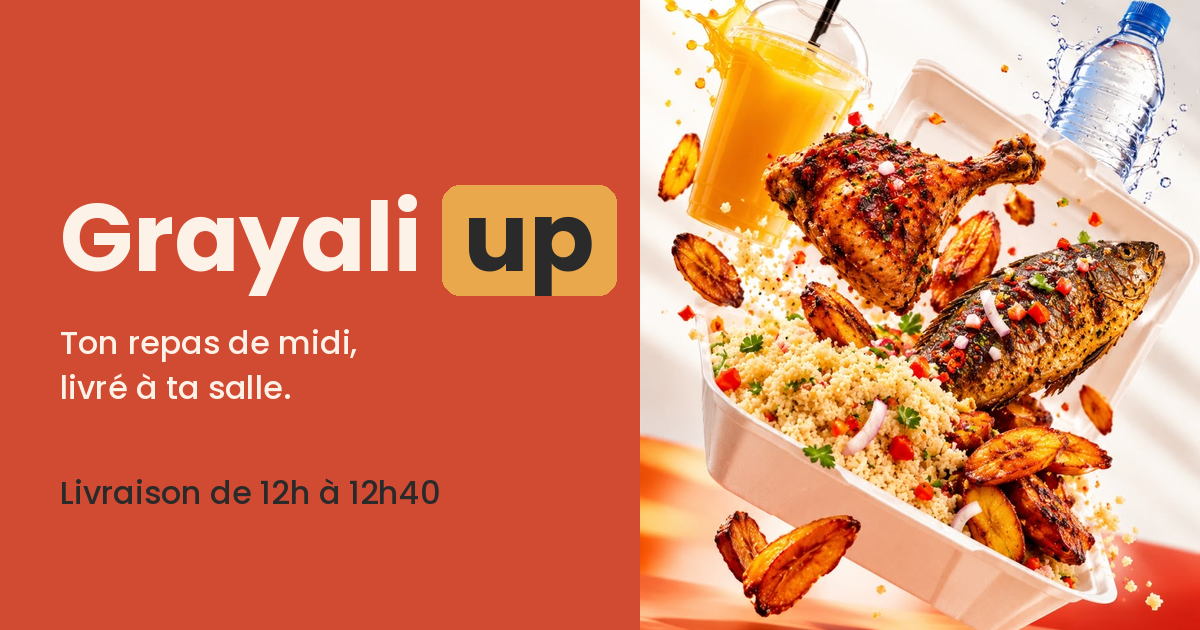
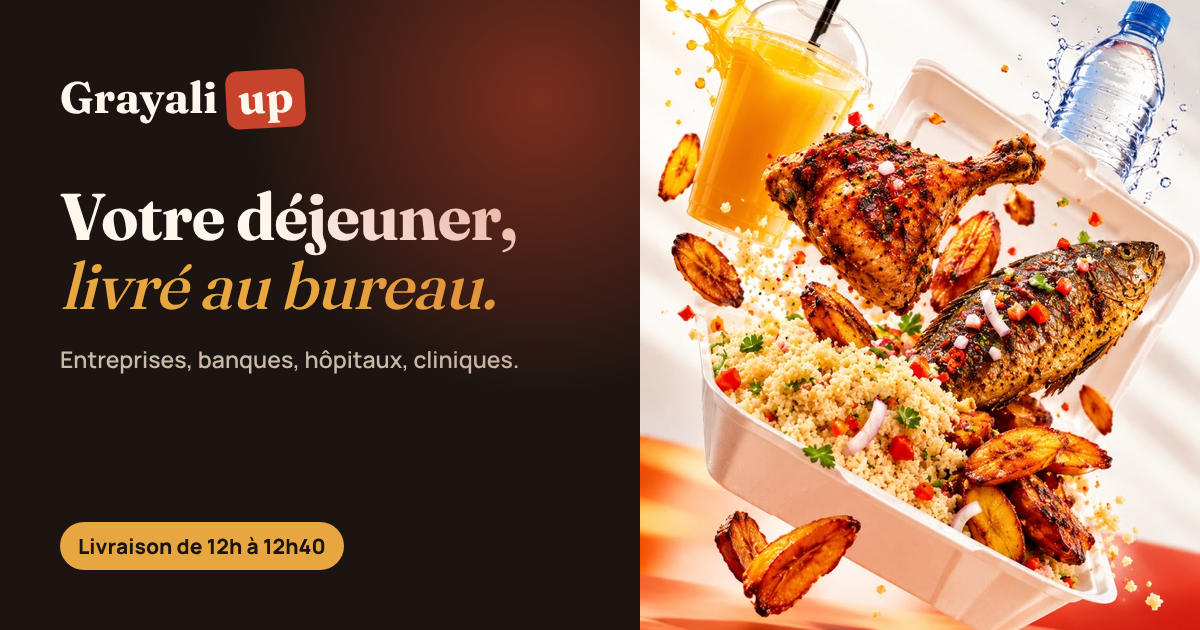
Version entreprises : plats à 1300 F, livraison au bureau, vouvoiement
Textes adaptés aux travailleurs (entreprises, banques, hôpitaux,
cliniques), nouvelle image d'aperçu, message WhatsApp marqué PRO.

Claude-Session: https://claude.ai/code/session_015VfU1APQaspC4ss6bpc7VS

diff --git a/index.html b/index.html
@@ -3,14 +3,14 @@
 <head>
 <meta charset="utf-8">
 <meta name="viewport" content="width=device-width, initial-scale=1, viewport-fit=cover">
-<title>Grayali up — Ton repas de midi, livré à ta salle</title>
-<meta name="description" content="Plats ivoiriens faits du jour, livrés dans ta salle ou ton amphi entre 12h et 12h40. Commande en 1 minute sur WhatsApp, paiement Wave.">
+<title>Grayali up — Votre déjeuner livré au bureau</title>
+<meta name="description" content="Plats ivoiriens faits du jour, livrés à votre bureau entre 12h et 12h40. Entreprises, banques, hôpitaux, cliniques : commandez en 1 minute sur WhatsApp, paiement Wave.">
 <meta name="theme-color" content="#1b1410">
 <meta property="og:type" content="website">
-<meta property="og:title" content="Grayali up — Ton repas de midi, livré à ta salle">
-<meta property="og:description" content="Plats faits du jour, livrés entre 12h et 12h40. Commande sur WhatsApp, paiement Wave.">
+<meta property="og:title" content="Grayali up — Votre déjeuner livré au bureau">
+<meta property="og:description" content="Plats faits du jour, livrés à votre bureau entre 12h et 12h40. Commande sur WhatsApp, paiement Wave.">
 <meta property="og:url" content="https://fadi2811.github.io/Grayali-up-/">
-<meta property="og:image" content="https://fadi2811.github.io/Grayali-up-/preview.png">
+<meta property="og:image" content="https://fadi2811.github.io/Grayali-up-/preview.png?v=2">
 <meta property="og:image:width" content="1200">
 <meta property="og:image:height" content="630">
 <meta name="twitter:card" content="summary_large_image">
@@ -388,16 +388,16 @@ footer .cp{grid-column:1/-1;border-top:1px solid rgba(255,255,255,.1);padding-to
   <div class="wrap">
     <div>
       <span class="status" id="status"><span class="pulse" id="pulse"></span><span id="statusTx">Chargement…</span></span>
-      <h1>Ton repas de midi, <em>livré à ta salle.</em></h1>
-      <p class="lead">Des plats ivoiriens faits du jour, apportés dans ton bâtiment, ta salle ou ton amphi entre 12h et 12h40. Tu commandes en une minute sur WhatsApp, tu paies par Wave.</p>
+      <h1>Votre déjeuner, <em>livré au bureau.</em></h1>
+      <p class="lead">Des plats ivoiriens faits du jour, apportés à votre entreprise, votre service ou votre clinique entre 12h et 12h40. Vous commandez en une minute sur WhatsApp, vous payez par Wave.</p>
       <div class="cta">
         <a class="btn p" href="#menu">Voir le menu
           <svg viewBox="0 0 24 24" fill="none" stroke="currentColor" stroke-width="2.2" stroke-linecap="round" stroke-linejoin="round"><path d="M5 12h14M13 6l6 6-6 6"/></svg></a>
         <a class="btn g" href="#how">Comment ça marche</a>
       </div>
       <div class="facts">
-        <div><b id="fPrice">1 100 F</b>le plat, livraison incluse</div>
-        <div><b>12h–12h40</b>livré dans ta salle</div>
+        <div><b id="fPrice">1 300 F</b>le plat, livraison incluse</div>
+        <div><b>12h–12h40</b>livré à votre bureau</div>
         <div><b>30 pts</b>= un cadeau surprise</div>
       </div>
     </div>
@@ -405,7 +405,7 @@ footer .cp{grid-column:1/-1;border-top:1px solid rgba(255,255,255,.1);padding-to
       <div class="p1"><img src="img/apf.jpg" alt=""></div>
       <div class="p2"><img src="img/alp.jpg" alt=""></div>
       <div class="p3"><img src="img/sp.jpg" alt=""></div>
-      <div class="tag t1"><span class="ic">🛵</span><span>Livré en salle<small>de 12h à 12h40</small></span></div>
+      <div class="tag t1"><span class="ic">🛵</span><span>Livré au bureau<small>de 12h à 12h40</small></span></div>
       <div class="tag t2"><span class="ic">💳</span><span>Paiement Wave<small>lien envoyé sur WhatsApp</small></span></div>
     </div>
   </div>
@@ -420,7 +420,7 @@ footer .cp{grid-column:1/-1;border-top:1px solid rgba(255,255,255,.1);padding-to
     <div class="sh2">
       <div>
         <span class="eyebrow">Le menu</span>
-        <h2>Choisis ton plat</h2>
+        <h2>Choisissez votre plat</h2>
         <p>Un prix unique, livraison comprise. Le stock est mis à jour en direct : quand c’est épuisé, c’est épuisé.</p>
       </div>
     </div>
@@ -439,13 +439,13 @@ footer .cp{grid-column:1/-1;border-top:1px solid rgba(255,255,255,.1);padding-to
 
 <section class="s alt" id="how">
   <div class="wrap">
-    <div class="sh2"><div><span class="eyebrow">Comment ça marche</span><h2>Simple, du choix à l’assiette</h2><p>Commande à toute heure. Pour être livré aujourd’hui, commande avant <b id="cutTx">11h30</b>. Sinon, c’est pour le prochain jour d’école.</p></div></div>
+    <div class="sh2"><div><span class="eyebrow">Comment ça marche</span><h2>Simple, du choix à l’assiette</h2><p>Commandez à toute heure. Pour être livré aujourd’hui, commandez avant <b id="cutTx">11h30</b>. Sinon, c’est pour le prochain jour ouvré.</p></div></div>
     <div class="steps">
-      <div class="step reveal"><div class="k"><svg viewBox="0 0 24 24" fill="none" stroke="currentColor" stroke-width="2" stroke-linecap="round" stroke-linejoin="round"><path d="M4 11h16a8 8 0 0 1-16 0z"/><path d="M12 3v3M8 4v2M16 4v2"/></svg></div><h3>Choisis tes plats</h3><p>Aujourd’hui ou le prochain jour, autant de plats que tu veux dans un même panier.</p></div>
-      <div class="step reveal"><div class="k"><svg viewBox="0 0 24 24" fill="none" stroke="currentColor" stroke-width="2" stroke-linecap="round" stroke-linejoin="round"><path d="M12 21s-7-6.2-7-11a7 7 0 0 1 14 0c0 4.8-7 11-7 11z"/><circle cx="12" cy="10" r="2.5"/></svg></div><h3>Dis-nous où livrer</h3><p>Ton bâtiment, ta salle ou ton amphi, et ton numéro WhatsApp.</p></div>
-      <div class="step reveal"><div class="k"><svg viewBox="0 0 24 24" fill="none" stroke="currentColor" stroke-width="2" stroke-linecap="round" stroke-linejoin="round"><path d="M21 12a9 9 0 0 1-13.4 7.9L3 21l1.1-4.6A9 9 0 1 1 21 12z"/></svg></div><h3>Envoie sur WhatsApp</h3><p>Ton message est déjà écrit. Tu reçois un code de commande, garde-le bien.</p></div>
-      <div class="step reveal"><div class="k"><svg viewBox="0 0 24 24" fill="none" stroke="currentColor" stroke-width="2" stroke-linecap="round" stroke-linejoin="round"><rect x="3" y="6" width="18" height="13" rx="2"/><path d="M3 10h18M7 15h3"/></svg></div><h3>Paie par Wave</h3><p>Le lien de paiement arrive sur WhatsApp. Paie avant 22h, sinon la commande est annulée.</p></div>
-      <div class="step reveal"><div class="k"><svg viewBox="0 0 24 24" fill="none" stroke="currentColor" stroke-width="2" stroke-linecap="round" stroke-linejoin="round"><path d="M5 17h14l-1.5-6h-11z"/><circle cx="8" cy="19" r="1.5"/><circle cx="16" cy="19" r="1.5"/><path d="M9 11V8a3 3 0 0 1 6 0v3"/></svg></div><h3>Reçois ton plat</h3><p>Entre 12h et 12h40, donne ton code à la personne qui te livre. Bon appétit !</p></div>
+      <div class="step reveal"><div class="k"><svg viewBox="0 0 24 24" fill="none" stroke="currentColor" stroke-width="2" stroke-linecap="round" stroke-linejoin="round"><path d="M4 11h16a8 8 0 0 1-16 0z"/><path d="M12 3v3M8 4v2M16 4v2"/></svg></div><h3>Choisissez vos plats</h3><p>Pour aujourd’hui ou le prochain jour ouvré, pour vous seul ou pour toute l’équipe.</p></div>
+      <div class="step reveal"><div class="k"><svg viewBox="0 0 24 24" fill="none" stroke="currentColor" stroke-width="2" stroke-linecap="round" stroke-linejoin="round"><path d="M12 21s-7-6.2-7-11a7 7 0 0 1 14 0c0 4.8-7 11-7 11z"/><circle cx="12" cy="10" r="2.5"/></svg></div><h3>Indiquez où livrer</h3><p>Votre entreprise, le service ou l’étage, et votre numéro WhatsApp.</p></div>
+      <div class="step reveal"><div class="k"><svg viewBox="0 0 24 24" fill="none" stroke="currentColor" stroke-width="2" stroke-linecap="round" stroke-linejoin="round"><path d="M21 12a9 9 0 0 1-13.4 7.9L3 21l1.1-4.6A9 9 0 1 1 21 12z"/></svg></div><h3>Envoyez sur WhatsApp</h3><p>Le message est déjà rédigé. Vous recevez un code de commande, gardez-le.</p></div>
+      <div class="step reveal"><div class="k"><svg viewBox="0 0 24 24" fill="none" stroke="currentColor" stroke-width="2" stroke-linecap="round" stroke-linejoin="round"><rect x="3" y="6" width="18" height="13" rx="2"/><path d="M3 10h18M7 15h3"/></svg></div><h3>Payez par Wave</h3><p>Le lien de paiement arrive sur WhatsApp. Payez avant 22h, sinon la commande est annulée.</p></div>
+      <div class="step reveal"><div class="k"><svg viewBox="0 0 24 24" fill="none" stroke="currentColor" stroke-width="2" stroke-linecap="round" stroke-linejoin="round"><path d="M5 17h14l-1.5-6h-11z"/><circle cx="8" cy="19" r="1.5"/><circle cx="16" cy="19" r="1.5"/><path d="M9 11V8a3 3 0 0 1 6 0v3"/></svg></div><h3>Recevez votre plat</h3><p>Entre 12h et 12h40, donnez votre code au livreur. Bon appétit !</p></div>
     </div>
   </div>
 </section>
@@ -454,13 +454,13 @@ footer .cp{grid-column:1/-1;border-top:1px solid rgba(255,255,255,.1);padding-to
   <div class="wrap loy">
     <div class="loyc reveal">
       <span class="eyebrow">Programme fidélité</span>
-      <h2>1 plat payé = 1 point.<br>À <span id="goalTx">30</span>, on te gâte.</h2>
-      <p>Chaque plat payé te rapporte un point, ajouté dès que ton paiement est confirmé. Au bout de 30 points, un cadeau surprise t’attend.</p>
+      <h2>1 plat payé = 1 point.<br>À <span id="goalTx">30</span>, on vous gâte.</h2>
+      <p>Chaque plat payé vous rapporte un point, ajouté dès que votre paiement est confirmé. Au bout de 30 points, un cadeau surprise vous attend.</p>
       <div class="perks"><span class="perk">🍬 Une sucrerie</span><span class="perk">💧 Une bouteille d’eau</span><span class="perk">🍽 Parfois un plat offert</span></div>
     </div>
     <form class="ptsbox reveal" id="ptsf" novalidate>
       <h3>Mes points</h3>
-      <label class="field">Ton numéro WhatsApp<input id="pt" type="tel" inputmode="tel" autocomplete="tel" placeholder="05 00 00 00 00"></label>
+      <label class="field">Votre numéro WhatsApp<input id="pt" type="tel" inputmode="tel" autocomplete="tel" placeholder="05 00 00 00 00"></label>
       <button class="btn p blk" type="submit">Voir mes points</button>
       <div id="pres" aria-live="polite"></div>
     </form>
@@ -469,8 +469,8 @@ footer .cp{grid-column:1/-1;border-top:1px solid rgba(255,255,255,.1);padding-to
 
 <section class="s alt" id="shop">
   <div class="wrap">
-    <div class="sh2"><div><span class="eyebrow">Boutique</span><h2>Bientôt plus que des plats</h2><p>Vêtements, chaussures et accessoires, livrés sur le campus de la même façon.</p></div></div>
-    <div id="shopLock" class="shopc reveal"><div class="em">👕👟🎒</div><h3>La boutique ouvre bientôt</h3><p>On prépare une sélection pour toi. En attendant, commande ton repas de midi !</p><p style="margin-top:20px"><a class="btn o" href="#menu">Voir le menu</a></p></div>
+    <div class="sh2"><div><span class="eyebrow">Boutique</span><h2>Bientôt plus que des plats</h2><p>Vêtements, chaussures et accessoires, livrés à votre bureau de la même façon.</p></div></div>
+    <div id="shopLock" class="shopc reveal"><div class="em">👕👟🎒</div><h3>La boutique ouvre bientôt</h3><p>Nous préparons une sélection pour vous. En attendant, commandez votre déjeuner !</p><p style="margin-top:20px"><a class="btn o" href="#menu">Voir le menu</a></p></div>
     <div id="shopOpen" hidden>
       <div class="ctrl"><div class="chips" id="pcats"></div><button class="btn o" id="shopCartB" onclick="openShop()" style="height:44px">Panier boutique (<span id="shopn">0</span>)</button></div>
       <div class="pgrid" id="pgrid"></div>
@@ -482,12 +482,12 @@ footer .cp{grid-column:1/-1;border-top:1px solid rgba(255,255,255,.1);padding-to
   <div class="wrap">
     <div class="sh2"><div><span class="eyebrow">Questions fréquentes</span><h2>Tout ce qu’il faut savoir</h2></div></div>
     <div class="faq">
-      <details><summary>Jusqu’à quelle heure puis-je commander pour aujourd’hui ?</summary><p>Jusqu’à <b class="cutx">11h30</b>, du lundi au vendredi. Après, ta commande part pour le prochain jour d’école. Tu peux commander à n’importe quelle heure.</p></details>
-      <details><summary>Comment je paie ?</summary><p>Par Wave uniquement. Après ton message WhatsApp, tu reçois un lien de paiement. Paie avant 22h (pour une commande du jour, dès que tu reçois le lien), sinon la commande est annulée.</p></details>
-      <details><summary>La livraison est-elle payante ?</summary><p>Non, elle est incluse dans le prix du plat. On te livre dans ton bâtiment, ta salle ou ton amphi entre 12h et 12h40.</p></details>
-      <details><summary>À quoi sert mon code de commande ?</summary><p>C’est ta preuve de commande. Donne-le à la personne qui te livre pour récupérer ton plat. Fais une capture d’écran pour le garder.</p></details>
-      <details><summary>Je peux commander pour plusieurs personnes ?</summary><p>Oui. Ajoute plusieurs plats dans ton panier, tant qu’il reste du stock. Un panier correspond à un seul jour de livraison.</p></details>
-      <details><summary>Comment marchent les points ?</summary><p>1 plat payé = 1 point, ajouté quand ton paiement est confirmé. À 30 points, tu gagnes un cadeau surprise. Vérifie ton total dans la section Fidélité avec ton numéro WhatsApp.</p></details>
+      <details><summary>Jusqu’à quelle heure puis-je commander pour aujourd’hui ?</summary><p>Jusqu’à <b class="cutx">11h30</b>, du lundi au vendredi. Après, votre commande part pour le prochain jour ouvré. Vous pouvez commander à n’importe quelle heure.</p></details>
+      <details><summary>Comment payer ?</summary><p>Par Wave uniquement. Après votre message WhatsApp, vous recevez un lien de paiement. Payez avant 22h (pour une commande du jour, dès réception du lien), sinon la commande est annulée.</p></details>
+      <details><summary>La livraison est-elle payante ?</summary><p>Non, elle est incluse dans le prix du plat. Nous livrons à votre bureau, à l’accueil ou dans votre service entre 12h et 12h40.</p></details>
+      <details><summary>À quoi sert mon code de commande ?</summary><p>C’est votre preuve de commande. Donnez-le au livreur pour récupérer votre plat. Faites une capture d’écran pour le garder.</p></details>
+      <details><summary>Puis-je commander pour mon équipe ?</summary><p>Oui. Ajoutez plusieurs plats dans votre panier, tant qu’il reste du stock, et tout est livré au même endroit. Un panier correspond à un seul jour de livraison.</p></details>
+      <details><summary>Comment marchent les points ?</summary><p>1 plat payé = 1 point, ajouté quand votre paiement est confirmé. À 30 points, vous gagnez un cadeau surprise. Consultez votre total dans la section Fidélité avec votre numéro WhatsApp.</p></details>
     </div>
   </div>
 </section>
@@ -497,7 +497,7 @@ footer .cp{grid-column:1/-1;border-top:1px solid rgba(255,255,255,.1);padding-to
   <div class="wrap">
     <div>
       <div class="logo">Grayali <i>up</i></div>
-      <p style="margin:0;max-width:340px">Ton repas de midi, livré à ta salle. Plats faits du jour, livrés entre 12h et 12h40.</p>
+      <p style="margin:0;max-width:340px">Votre déjeuner livré au bureau. Entreprises, banques, hôpitaux, cliniques : plats faits du jour, livrés entre 12h et 12h40.</p>
     </div>
     <div>
       <h4>Le site</h4>
@@ -540,7 +540,7 @@ footer .cp{grid-column:1/-1;border-top:1px solid rgba(255,255,255,.1);padding-to
 <!-- Panier -->
 <div class="ov side" id="cart" role="dialog" aria-modal="true" aria-labelledby="cth" hidden>
   <div class="mod">
-    <div class="dh"><h2 id="cth">Ton panier</h2><button class="x" onclick="closeOv('cart')" aria-label="Fermer"><svg viewBox="0 0 24 24" fill="none" stroke="currentColor" stroke-width="2.2" stroke-linecap="round"><path d="M6 6l12 12M18 6 6 18"/></svg></button></div>
+    <div class="dh"><h2 id="cth">Votre panier</h2><button class="x" onclick="closeOv('cart')" aria-label="Fermer"><svg viewBox="0 0 24 24" fill="none" stroke="currentColor" stroke-width="2.2" stroke-linecap="round"><path d="M6 6l12 12M18 6 6 18"/></svg></button></div>
     <div class="dc" id="cbody"></div>
     <div class="df" id="cfoot"></div>
   </div>
@@ -552,18 +552,18 @@ footer .cp{grid-column:1/-1;border-top:1px solid rgba(255,255,255,.1);padding-to
     <div class="done">
       <div class="ck"><svg viewBox="0 0 24 24" fill="none" stroke="currentColor" stroke-width="2.6" stroke-linecap="round" stroke-linejoin="round"><path d="M5 12.5l4.5 4.5L19 7.5"/></svg></div>
       <h2 id="doneh">Plus qu’une étape</h2>
-      <p>Ta commande <b>n’est pas encore envoyée</b>. Touche le bouton vert pour l’envoyer sur WhatsApp.</p>
-      <div class="code"><small>Ton code de commande</small><span id="dcode"></span></div>
+      <p>Votre commande <b>n’est pas encore envoyée</b>. Touchez le bouton vert pour l’envoyer sur WhatsApp.</p>
+      <div class="code"><small>Votre code de commande</small><span id="dcode"></span></div>
       <div class="tl">
-        <div><i>1</i><span>Envoie le message WhatsApp (il est déjà écrit).</span></div>
+        <div><i>1</i><span>Envoyez le message WhatsApp (il est déjà rédigé).</span></div>
         <div><i>2</i><span id="payn"></span></div>
-        <div><i>3</i><span><b id="dwhen"></b> : donne ton code à la personne qui te livre.</span></div>
+        <div><i>3</i><span><b id="dwhen"></b> : donnez votre code au livreur.</span></div>
       </div>
       <a class="btn w blk" id="ow" href="#" target="_blank" rel="noopener" onclick="sentWa()">
         <svg viewBox="0 0 24 24" fill="currentColor"><path d="M12 2a10 10 0 0 0-8.6 15.1L2 22l5-1.3A10 10 0 1 0 12 2zm5.3 14.1c-.2.6-1.3 1.2-1.8 1.2-.5.1-1 .1-3.3-.8-2.8-1.1-4.5-4-4.7-4.2-.1-.2-1.1-1.5-1.1-2.8s.7-2 1-2.3c.2-.3.5-.3.7-.3h.5c.2 0 .4 0 .6.5l.8 2c.1.2.1.3 0 .5l-.4.6c-.1.2-.3.3-.1.6.2.3.7 1.2 1.6 2 1.1 1 2 1.3 2.3 1.4.3.1.4.1.6-.1l.8-1c.2-.3.4-.2.6-.1l1.9.9c.3.1.5.2.5.3.1.2.1.8-.1 1.4z"/></svg>
         Envoyer sur WhatsApp</a>
       <button class="btn o blk" id="fb" hidden onclick="fin()">C’est envoyé, terminer</button>
-      <details><summary>Le bouton ne marche pas ?</summary><p style="margin-top:8px">Copie ce message et envoie-le sur WhatsApp au <b>05 75 02 84 17</b>.</p><textarea id="om" rows="6" readonly></textarea><button class="btn o blk" style="height:46px" onclick="cp(this)">Copier le message</button></details>
+      <details><summary>Le bouton ne marche pas ?</summary><p style="margin-top:8px">Copiez ce message et envoyez-le sur WhatsApp au <b>05 75 02 84 17</b>.</p><textarea id="om" rows="6" readonly></textarea><button class="btn o blk" style="height:46px" onclick="cp(this)">Copier le message</button></details>
     </div>
   </div>
 </div>
@@ -596,16 +596,16 @@ var GOAL = 30;
    tableau de bord est lié à la position (t0, t1, … / d0, d1, …). */
 var PLACE = "Le Chalet Ivoire";
 var D = [
-  {n:"Alloco + poulet pané",p:1100,st:15,img:"alp",c:["alloco","poulet"],x:"Bananes plantain dorées et poulet pané croustillant."},
-  {n:"Frites + poulet pané",p:1100,st:15,img:"fpp",c:["frites","poulet"],x:"Frites croustillantes et poulet pané doré, sauces à côté."},
-  {n:"Alloco + poulet mayo",p:1100,st:15,img:"alm",c:["alloco","poulet"],x:"Alloco fondant et poulet nappé de sauce mayonnaise."},
-  {n:"Frites + poulet mayo",p:1100,st:15,img:"fm",c:["frites","poulet"],x:"Frites généreuses, poulet grillé et sauce mayo maison."},
-  {n:"Attiéké + poulet mayo",p:1100,st:15,img:"atm",c:["attieke","poulet"],x:"Attiéké parfumé, poulet sauce mayo et crudités."},
-  {n:"Riz aux vermicelles + poulet mayo",p:1100,st:15,img:"rv",c:["riz","poulet"],x:"Riz sauté aux vermicelles et légumes, poulet sauce mayo."},
-  {n:"APF (attiéké poisson braisé)",p:1100,st:15,img:"apf",c:["attieke","grill"],x:"Le grand classique : attiéké, poisson braisé, oignons et piment."},
-  {n:"Spaghetti bolognaise + poulet mayo",p:1100,st:15,img:"sp",c:["riz","poulet"],x:"Spaghetti à la sauce bolognaise et poulet sauce mayo."},
-  {n:"Choukouya de poulet",p:1100,st:15,img:"ch",c:["grill","poulet"],x:"Poulet braisé façon choukouya, épices, oignons et légumes."},
-  {n:"Attiéké + poulet grillé",p:1100,st:15,img:"pg",c:["attieke","grill","poulet"],x:"Attiéké, poulet grillé au feu de bois et crudités fraîches."}
+  {n:"Alloco + poulet pané",p:1300,st:15,img:"alp",c:["alloco","poulet"],x:"Bananes plantain dorées et poulet pané croustillant."},
+  {n:"Frites + poulet pané",p:1300,st:15,img:"fpp",c:["frites","poulet"],x:"Frites croustillantes et poulet pané doré, sauces à côté."},
+  {n:"Alloco + poulet mayo",p:1300,st:15,img:"alm",c:["alloco","poulet"],x:"Alloco fondant et poulet nappé de sauce mayonnaise."},
+  {n:"Frites + poulet mayo",p:1300,st:15,img:"fm",c:["frites","poulet"],x:"Frites généreuses, poulet grillé et sauce mayo maison."},
+  {n:"Attiéké + poulet mayo",p:1300,st:15,img:"atm",c:["attieke","poulet"],x:"Attiéké parfumé, poulet sauce mayo et crudités."},
+  {n:"Riz aux vermicelles + poulet mayo",p:1300,st:15,img:"rv",c:["riz","poulet"],x:"Riz sauté aux vermicelles et légumes, poulet sauce mayo."},
+  {n:"APF (attiéké poisson braisé)",p:1300,st:15,img:"apf",c:["attieke","grill"],x:"Le grand classique : attiéké, poisson braisé, oignons et piment."},
+  {n:"Spaghetti bolognaise + poulet mayo",p:1300,st:15,img:"sp",c:["riz","poulet"],x:"Spaghetti à la sauce bolognaise et poulet sauce mayo."},
+  {n:"Choukouya de poulet",p:1300,st:15,img:"ch",c:["grill","poulet"],x:"Poulet braisé façon choukouya, épices, oignons et légumes."},
+  {n:"Attiéké + poulet grillé",p:1300,st:15,img:"pg",c:["attieke","grill","poulet"],x:"Attiéké, poulet grillé au feu de bois et crudités fraîches."}
 ];
 D.forEach(function(x){x.sd=x.st;x.src="img/"+x.img+".jpg"});
 var CATS=[["all","Tout"],["poulet","Poulet"],["grill","Grillades"],["attieke","Attiéké"],["alloco","Alloco"],["frites","Frites"],["riz","Riz & pâtes"]];
@@ -699,9 +699,9 @@ function drawDaySeg(){
   $("#dayseg").hidden=!TODAY_ON;
   $("#dayseg").innerHTML='<button role="tab" aria-selected="'+(dayMode==="d")+'" class="'+(dayMode==="d"?"on":"")+'"'+(di.todayOpen?"":" disabled")+' onclick="switchDay(\'d\')">Aujourd’hui<small>'+(di.todayOpen?"jusqu’à "+hm(TODAY_END):"fermé")+'</small></button><button role="tab" aria-selected="'+(dayMode==="t")+'" class="'+(dayMode==="t"?"on":"")+'" onclick="switchDay(\'t\')">'+cap(di.nextName)+'<small>'+di.nextShort+'</small></button>';
   var b=$("#dayban");
-  if(!LIV_OPEN){b.className="dayban closed";b.innerHTML="Pas de livraison pour le moment. Reviens bientôt !";return}
+  if(!LIV_OPEN){b.className="dayban closed";b.innerHTML="Pas de livraison pour le moment. Revenez bientôt !";return}
   b.className="dayban";
-  b.innerHTML='<svg viewBox="0 0 24 24" fill="none" stroke="currentColor" stroke-width="2" stroke-linecap="round" stroke-linejoin="round"><rect x="3" y="5" width="18" height="16" rx="2"/><path d="M16 3v4M8 3v4M3 10h18"/></svg><span>Livraison <b>'+jourTx(dayMode,di)+'</b>, entre 12h et 12h40, dans ta salle.</span>';
+  b.innerHTML='<svg viewBox="0 0 24 24" fill="none" stroke="currentColor" stroke-width="2" stroke-linecap="round" stroke-linejoin="round"><rect x="3" y="5" width="18" height="16" rx="2"/><path d="M16 3v4M8 3v4M3 10h18"/></svg><span>Livraison <b>'+jourTx(dayMode,di)+'</b>, entre 12h et 12h40, à votre bureau.</span>';
 }
 function switchDay(m,silent){
   var di=dayInfo();
@@ -758,7 +758,7 @@ function dshow(){
   $("#dqn").textContent=cq;$("#dm").disabled=cq<=1;$("#dpb").disabled=cq>=mx;
   $("#dtot").textContent=f(x.p*cq);
   $("#dadd").disabled=mx<1;$("#dnow").disabled=mx<1;
-  $("#derr").textContent=mx<1&&s>0?"Tu as déjà tout le stock de ce plat dans ton panier.":"";
+  $("#derr").textContent=mx<1&&s>0?"Vous avez déjà tout le stock de ce plat dans votre panier.":"";
 }
 function dAdd(now){
   if(dmax()<1)return;
@@ -783,10 +783,10 @@ function drawBar(){
 function openCart(){cartMode="lunch";drawCart();openOv("cart")}
 function drawCart(){
   if(cartMode==="shop")return drawShopCart();
-  $("#cth").textContent="Ton panier";
+  $("#cth").textContent="Votre panier";
   var di=dayInfo(),ks=Object.keys(lc);
   if(!ks.length){
-    $("#cbody").innerHTML='<div class="cempty"><div class="em">🍽</div><p><b>Ton panier est vide.</b><br>Choisis un plat dans le menu.</p></div>';
+    $("#cbody").innerHTML='<div class="cempty"><div class="em">🍽</div><p><b>Votre panier est vide.</b><br>Choisissez un plat dans le menu.</p></div>';
     $("#cfoot").innerHTML='<button class="btn p blk" onclick="closeOv(\'cart\');location.hash=\'menu\'">Voir le menu</button>';
     return;
   }
@@ -795,14 +795,14 @@ function drawCart(){
   var h='<div class="dday"><svg viewBox="0 0 24 24" fill="none" stroke="currentColor" stroke-width="2" stroke-linecap="round" stroke-linejoin="round"><rect x="3" y="5" width="18" height="16" rx="2"/><path d="M16 3v4M8 3v4M3 10h18"/></svg><span>Livraison '+jourTx(dayMode,di)+', 12h–12h40</span></div>';
   h+=ks.map(function(k){var x=D[k],s=stk(x,dayMode);return '<div class="line"><img src="'+x.src+'" alt=""><div><b>'+esc(x.n)+'</b><small>'+f(x.p*lc[k])+'</small><br><button class="rm" onclick="lset('+k+',0)">Retirer</button></div><span class="qty sm"><button onclick="lset('+k+','+(lc[k]-1)+')" aria-label="Moins">−</button><span>'+lc[k]+'</span><button onclick="lset('+k+','+(lc[k]+1)+')" aria-label="Plus"'+(lc[k]>=s?" disabled":"")+'>+</button></span></div>'}).join("");
   h+='<form id="cform" novalidate style="display:flex;flex-direction:column;gap:14px;margin-top:6px">';
-  h+='<label class="field">Où te livrer ?<input id="cl" autocomplete="off" placeholder="Bâtiment, salle ou amphi" value="'+esc(keep.l!=null?keep.l:lieu)+'"></label>';
-  h+='<label class="field">Ton numéro WhatsApp<input id="ct" type="tel" inputmode="tel" autocomplete="tel" placeholder="05 00 00 00 00" value="'+esc(keep.t!=null?keep.t:tel)+'"><span class="hint">Sert aussi à compter tes points fidélité.</span></label>';
-  h+='<label class="field">Ton prénom <span class="hint" style="display:inline">(facultatif)</span><input id="cn" autocomplete="given-name" placeholder="Pour te reconnaître à la livraison" value="'+esc(keep.n!=null?keep.n:nom)+'"></label>';
+  h+='<label class="field">Lieu de livraison<input id="cl" autocomplete="organization" placeholder="Entreprise, service ou étage" value="'+esc(keep.l!=null?keep.l:lieu)+'"></label>';
+  h+='<label class="field">Votre numéro WhatsApp<input id="ct" type="tel" inputmode="tel" autocomplete="tel" placeholder="05 00 00 00 00" value="'+esc(keep.t!=null?keep.t:tel)+'"><span class="hint">Sert aussi à compter vos points fidélité.</span></label>';
+  h+='<label class="field">Votre nom <span class="hint" style="display:inline">(facultatif)</span><input id="cn" autocomplete="given-name" placeholder="Pour vous trouver à la livraison" value="'+esc(keep.n!=null?keep.n:nom)+'"></label>';
   h+='</form>';
-  h+='<div class="info"><svg viewBox="0 0 24 24" fill="none" stroke="currentColor" stroke-width="2" stroke-linecap="round"><circle cx="12" cy="12" r="9"/><path d="M12 8v5M12 16h.01"/></svg><span><b>Paiement par Wave.</b> Après ta commande, tu reçois sur WhatsApp le lien pour payer. Paie avant 22h'+(dayMode==="d"?" (pour aujourd’hui : dès que tu reçois le lien)":"")+', sinon elle est annulée.</span></div>';
+  h+='<div class="info"><svg viewBox="0 0 24 24" fill="none" stroke="currentColor" stroke-width="2" stroke-linecap="round"><circle cx="12" cy="12" r="9"/><path d="M12 8v5M12 16h.01"/></svg><span><b>Paiement par Wave.</b> Après votre commande, vous recevez sur WhatsApp le lien pour payer. Payez avant 22h'+(dayMode==="d"?" (pour aujourd’hui : dès réception du lien)":"")+', sinon elle est annulée.</span></div>';
   $("#cbody").innerHTML=h;
   var c=lcount();
-  $("#cfoot").innerHTML='<div class="sum"><div><span>'+plural(c,"plat")+'</span><span>'+f(ltot())+'</span></div><div><span>Livraison en salle</span><span>Offerte</span></div><div class="t"><span>Total</span><span>'+f(ltot())+'</span></div></div><p class="err" id="cerr"></p><button class="btn p blk" id="csend" onclick="sendLunch()">Commander sur WhatsApp</button>';
+  $("#cfoot").innerHTML='<div class="sum"><div><span>'+plural(c,"plat")+'</span><span>'+f(ltot())+'</span></div><div><span>Livraison au bureau</span><span>Offerte</span></div><div class="t"><span>Total</span><span>'+f(ltot())+'</span></div></div><p class="err" id="cerr"></p><button class="btn p blk" id="csend" onclick="sendLunch()">Commander sur WhatsApp</button>';
 }
 function lset(k,n){
   var s=stk(D[k],dayMode);
@@ -813,11 +813,11 @@ function sendLunch(){
   var di=dayInfo(),err="#cerr";
   var l=$("#cl").value.trim(),t=$("#ct").value.trim(),nm=$("#cn").value.trim();
   $("#cl").parentNode.classList.remove("bad");$("#ct").parentNode.classList.remove("bad");
-  if(dayMode==="d"&&!di.todayOpen){switchDay("t",true);lc={};saveLc();renderAll();drawCart();$("#cerr").textContent="Les commandes pour aujourd’hui sont fermées ("+hm(TODAY_END)+"). Choisis "+di.nextName+".";return}
+  if(dayMode==="d"&&!di.todayOpen){switchDay("t",true);lc={};saveLc();renderAll();drawCart();$("#cerr").textContent="Les commandes pour aujourd’hui sont fermées ("+hm(TODAY_END)+"). Choisissez "+di.nextName+".";return}
   var ks=Object.keys(lc);
   if(!ks.length){$(err).textContent="Ton panier est vide.";return}
-  if(!l){$(err).textContent="Indique où tu veux être livré.";$("#cl").parentNode.classList.add("bad");$("#cl").focus();return}
-  if(t.replace(/\D/g,"").length<10){$(err).textContent="Indique ton numéro WhatsApp (10 chiffres).";$("#ct").parentNode.classList.add("bad");$("#ct").focus();return}
+  if(!l){$(err).textContent="Indiquez le lieu de livraison (entreprise, service ou étage).";$("#cl").parentNode.classList.add("bad");$("#cl").focus();return}
+  if(t.replace(/\D/g,"").length<10){$(err).textContent="Indiquez votre numéro WhatsApp (10 chiffres).";$("#ct").parentNode.classList.add("bad");$("#ct").focus();return}
   ls("upbTel",t);ls("upbLieu",l);ls("gupNom",nm);
   var mode=dayMode,total=0;
   for(var j=0;j<ks.length;j++){if(lc[ks[j]]>stk(D[ks[j]],mode)){$(err).textContent="Plus assez de stock pour "+D[ks[j]].n+".";return}total+=D[ks[j]].p*lc[ks[j]]}
@@ -825,7 +825,7 @@ function sendLunch(){
   var lines=ks.map(function(k){return "- "+lc[k]+" x "+D[k].n}).join("\n");
   var code=newCode();pay={total:total,mode:mode,jour:jour};
   reserve(ks.map(function(k){return {id:mode+k,qty:lc[k]}}),code,err,"#csend",function(u){
-    wa("Commande Grayali up, code "+code+"\n"+lines+"\nLivraison : "+jour+", entre 12h et 12h40\nLieu : "+l+(nm?"\nPrénom : "+nm:"")+"\nMon numéro : "+t+"\nTotal : "+f(total)+"\nPaiement : Wave"+(u?"\n⚠ Stock non vérifié":""),code);
+    wa("Commande Grayali up PRO (bureau), code "+code+"\n"+lines+"\nLivraison : "+jour+", entre 12h et 12h40\nLieu : "+l+(nm?"\nNom : "+nm:"")+"\nMon numéro : "+t+"\nTotal : "+f(total)+"\nPaiement : Wave"+(u?"\n⚠ Stock non vérifié":""),code);
   },{tel:t,lieu:l,jour:jour,total:total,nom:nm});
 }
 
@@ -852,7 +852,7 @@ function drawShop(){
 }
 function padd(i){
   var x=P[i],w=$("#w"+i);
-  if(x.s&&!sel[i]){w.textContent="Choisis ta taille.";return}
+  if(x.s&&!sel[i]){w.textContent="Choisissez votre taille.";return}
   if(pqty(i)>=x.st){w.textContent="Stock maximum atteint.";return}
   var k=i+"|"+(sel[i]||"");cart[k]=(cart[k]||0)+1;drawShop();toast(x.n+" ajouté");
 }
@@ -865,17 +865,17 @@ function openShop(){cartMode="shop";drawCart();openOv("cart")}
 function drawShopCart(){
   $("#cth").textContent="Panier boutique";
   var ks=Object.keys(cart);
-  if(!ks.length){$("#cbody").innerHTML='<div class="cempty"><div class="em">🛍</div><p><b>Ton panier boutique est vide.</b></p></div>';$("#cfoot").innerHTML="";return}
+  if(!ks.length){$("#cbody").innerHTML='<div class="cempty"><div class="em">🛍</div><p><b>Votre panier boutique est vide.</b></p></div>';$("#cfoot").innerHTML="";return}
   var h=ks.map(function(k){var x=P[pid(k)],z=psz(k);return '<div class="line"><span class="em">'+x.e+'</span><div><b>'+esc(x.n)+(z?" ("+z+")":"")+'</b><small>'+f(x.p*cart[k])+'</small></div><span class="qty sm"><button onclick="pchg(\''+k+'\',-1)">−</button><span>'+cart[k]+'</span><button onclick="pchg(\''+k+'\',1)">+</button></span></div>'}).join("");
-  h+='<label class="field">Ton nom<input id="sn" placeholder="Prénom et nom" value="'+esc(ls("gupNom")||"")+'"></label><label class="field">Où te livrer ?<input id="sl" placeholder="Bâtiment, salle ou amphi" value="'+esc(ls("upbLieu")||"")+'"></label>';
-  h+='<div class="info"><svg viewBox="0 0 24 24" fill="none" stroke="currentColor" stroke-width="2"><circle cx="12" cy="12" r="9"/><path d="M12 8v5M12 16h.01"/></svg><span><b>Paiement par Wave.</b> Sans paiement avant 22h, ta commande est annulée.</span></div>';
+  h+='<label class="field">Votre nom<input id="sn" placeholder="Prénom et nom" value="'+esc(ls("gupNom")||"")+'"></label><label class="field">Lieu de livraison<input id="sl" placeholder="Entreprise, service ou étage" value="'+esc(ls("upbLieu")||"")+'"></label>';
+  h+='<div class="info"><svg viewBox="0 0 24 24" fill="none" stroke="currentColor" stroke-width="2"><circle cx="12" cy="12" r="9"/><path d="M12 8v5M12 16h.01"/></svg><span><b>Paiement par Wave.</b> Sans paiement avant 22h, votre commande est annulée.</span></div>';
   $("#cbody").innerHTML=h;
   $("#cfoot").innerHTML='<div class="sum"><div class="t"><span>Total</span><span>'+f(ptot())+'</span></div></div><p class="err" id="serr"></p><button class="btn p blk" id="ssend" onclick="sendShop()">Commander sur WhatsApp</button>';
 }
 function pchg(k,d){if(d>0&&pqty(pid(k))>=P[pid(k)].st)return;cart[k]=(cart[k]||0)+d;if(cart[k]<=0)delete cart[k];drawShop();drawShopCart()}
 function sendShop(){
   var n=$("#sn").value.trim(),l=$("#sl").value.trim();
-  if(!n||!l){$("#serr").textContent="Indique ton nom et ton lieu de livraison.";return}
+  if(!n||!l){$("#serr").textContent="Indiquez votre nom et le lieu de livraison.";return}
   var lines=Object.keys(cart).map(function(k){var x=P[pid(k)],z=psz(k);return "- "+cart[k]+" x "+x.n+(z?" taille "+z:"")+" ("+f(x.p*cart[k])+")"}).join("\n");
   var code=newCode(),total=ptot();pay={total:total,mode:"t",jour:"Boutique"};
   reserve(Object.keys(cart).map(function(k){return {id:"p"+pid(k),qty:cart[k]}}),code,"#serr","#ssend",function(u){
@@ -886,17 +886,17 @@ function sendShop(){
 /* ---------- Points ---------- */
 function ptsGo(){
   var t=$("#pt").value.trim(),r=$("#pres");
-  if(t.replace(/\D/g,"").length<10){r.innerHTML='<p class="err">Indique ton numéro WhatsApp (10 chiffres).</p>';return}
+  if(t.replace(/\D/g,"").length<10){r.innerHTML='<p class="err">Indiquez votre numéro WhatsApp (10 chiffres).</p>';return}
   if(!STOCK_URL){r.textContent="Indisponible pour le moment.";return}
   ls("upbTel",t);
   r.innerHTML='<p style="color:var(--mu);margin:0">Chargement…</p>';
   fetch(STOCK_URL+"?pts="+encodeURIComponent(t)+"&t="+Date.now()).then(function(x){return x.json()}).then(function(d){
     var p=Number(d.points)||0,g=Number(d.goal)||GOAL,pc=Math.min(1,p/g),C=2*Math.PI*44;
-    var h='<div class="ring"><svg viewBox="0 0 100 100"><circle class="bgc" cx="50" cy="50" r="44" fill="none" stroke-width="10"/><circle class="fg" id="rfg" cx="50" cy="50" r="44" fill="none" stroke-width="10" stroke-linecap="round" stroke-dasharray="'+C+'" stroke-dashoffset="'+C+'"/></svg><div><b>'+p+' / '+g+'</b><span>'+(p>=g?"Objectif atteint, bravo !":"Plus que <b>"+(g-p)+"</b> plat"+(g-p>1?"s":"")+" pour ton cadeau.")+'</span></div></div>';
-    if(d.rewards&&d.rewards.length)h+='<div class="gift">🎁 Cadeau à retirer : '+esc(d.rewards.join(", "))+'<br><span style="font-weight:500">Dis-le à la personne qui te livre.</span></div>';
+    var h='<div class="ring"><svg viewBox="0 0 100 100"><circle class="bgc" cx="50" cy="50" r="44" fill="none" stroke-width="10"/><circle class="fg" id="rfg" cx="50" cy="50" r="44" fill="none" stroke-width="10" stroke-linecap="round" stroke-dasharray="'+C+'" stroke-dashoffset="'+C+'"/></svg><div><b>'+p+' / '+g+'</b><span>'+(p>=g?"Objectif atteint, bravo !":"Plus que <b>"+(g-p)+"</b> plat"+(g-p>1?"s":"")+" pour votre cadeau.")+'</span></div></div>';
+    if(d.rewards&&d.rewards.length)h+='<div class="gift">🎁 Cadeau à retirer : '+esc(d.rewards.join(", "))+'<br><span style="font-weight:500">Signalez-le au livreur.</span></div>';
     r.innerHTML=h;
     requestAnimationFrame(function(){requestAnimationFrame(function(){var e=$("#rfg");if(e)e.style.strokeDashoffset=C*(1-pc)})});
-  }).catch(function(){r.innerHTML='<p class="err">Connexion impossible. Réessaie.</p>'});
+  }).catch(function(){r.innerHTML='<p class="err">Connexion impossible. Réessayez.</p>'});
 }
 
 /* ---------- Stock en direct ---------- */
@@ -933,7 +933,7 @@ function newCode(){function r(){return ("0"+Math.floor(Math.random()*100)).slice
 function wa(msg,code){
   $("#ow").href="https://wa.me/"+WA+"?text="+encodeURIComponent(msg);
   $("#om").value=msg;$("#dcode").textContent=code;
-  $("#payn").innerHTML="Paie <b>"+f(pay.total)+"</b> avec le lien Wave reçu sur WhatsApp, "+(pay.mode==="d"?"dès que tu le reçois.":"avant 22h.");
+  $("#payn").innerHTML="Payez <b>"+f(pay.total)+"</b> avec le lien Wave reçu sur WhatsApp, "+(pay.mode==="d"?"dès réception.":"avant 22h.");
   $("#dwhen").textContent=pay.jour==="Boutique"?"À la livraison":cap(pay.jour)+", 12h–12h40";
   sentFlag=false;$("#fb").hidden=true;
   closeOv("cart",true);closeOv("dlg",true);openOv("done");

diff --git a/README.md b/README.md
@@ -1,6 +1,6 @@
 # Grayali up
 
-Ton repas de midi, livré à ta salle.
+Votre déjeuner livré au bureau.
 
 Site en ligne : https://fadi2811.github.io/Grayali-up-/
 
